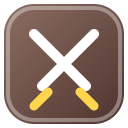
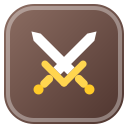
Redraw the battle emoji as proper crossed swords
The old version was two plain lines with detached hilt dashes; now each
sword has a blade, crossguard, grip, and pommel, crossed at 45 degrees.

Claude-Session: https://claude.ai/code/session_01EDvBy1vWmzVyxhEaGQxwNW

Changed region(s): [[0.2188, 0.4688, 0.7812, 0.875], [0.6875, 0.2188, 0.7812, 0.3125], [0.2188, 0.2188, 0.3125, 0.3125]]

diff --git a/scripts/make-emoji.js b/scripts/make-emoji.js
@@ -115,11 +115,17 @@ const ICON_EMOJI = {
   },
   battle: {
     color: '#8d6e63', dark: '#4e342e',
-    glyph: `<g stroke-linecap="round">
-      <line x1="34" y1="34" x2="86" y2="86" stroke="#ffffff" stroke-width="10"/>
-      <line x1="94" y1="34" x2="42" y2="86" stroke="#ffffff" stroke-width="10"/>
-      <line x1="80" y1="92" x2="94" y2="106" stroke="#ffd54f" stroke-width="9"/>
-      <line x1="48" y1="92" x2="34" y2="106" stroke="#ffd54f" stroke-width="9"/>
+    glyph: `<g transform="rotate(-45 64 64)">
+      <polygon points="64,18 69,26 69,74 59,74 59,26" fill="#ffffff"/>
+      <rect x="47" y="74" width="34" height="7" rx="3.5" fill="#ffd54f"/>
+      <rect x="60" y="81" width="8" height="15" rx="4" fill="#ffd54f"/>
+      <circle cx="64" cy="100" r="5" fill="#ffca28"/>
+    </g>
+    <g transform="rotate(45 64 64)">
+      <polygon points="64,18 69,26 69,74 59,74 59,26" fill="#ffffff"/>
+      <rect x="47" y="74" width="34" height="7" rx="3.5" fill="#ffd54f"/>
+      <rect x="60" y="81" width="8" height="15" rx="4" fill="#ffd54f"/>
+      <circle cx="64" cy="100" r="5" fill="#ffca28"/>
     </g>`,
   },
   pack: {
